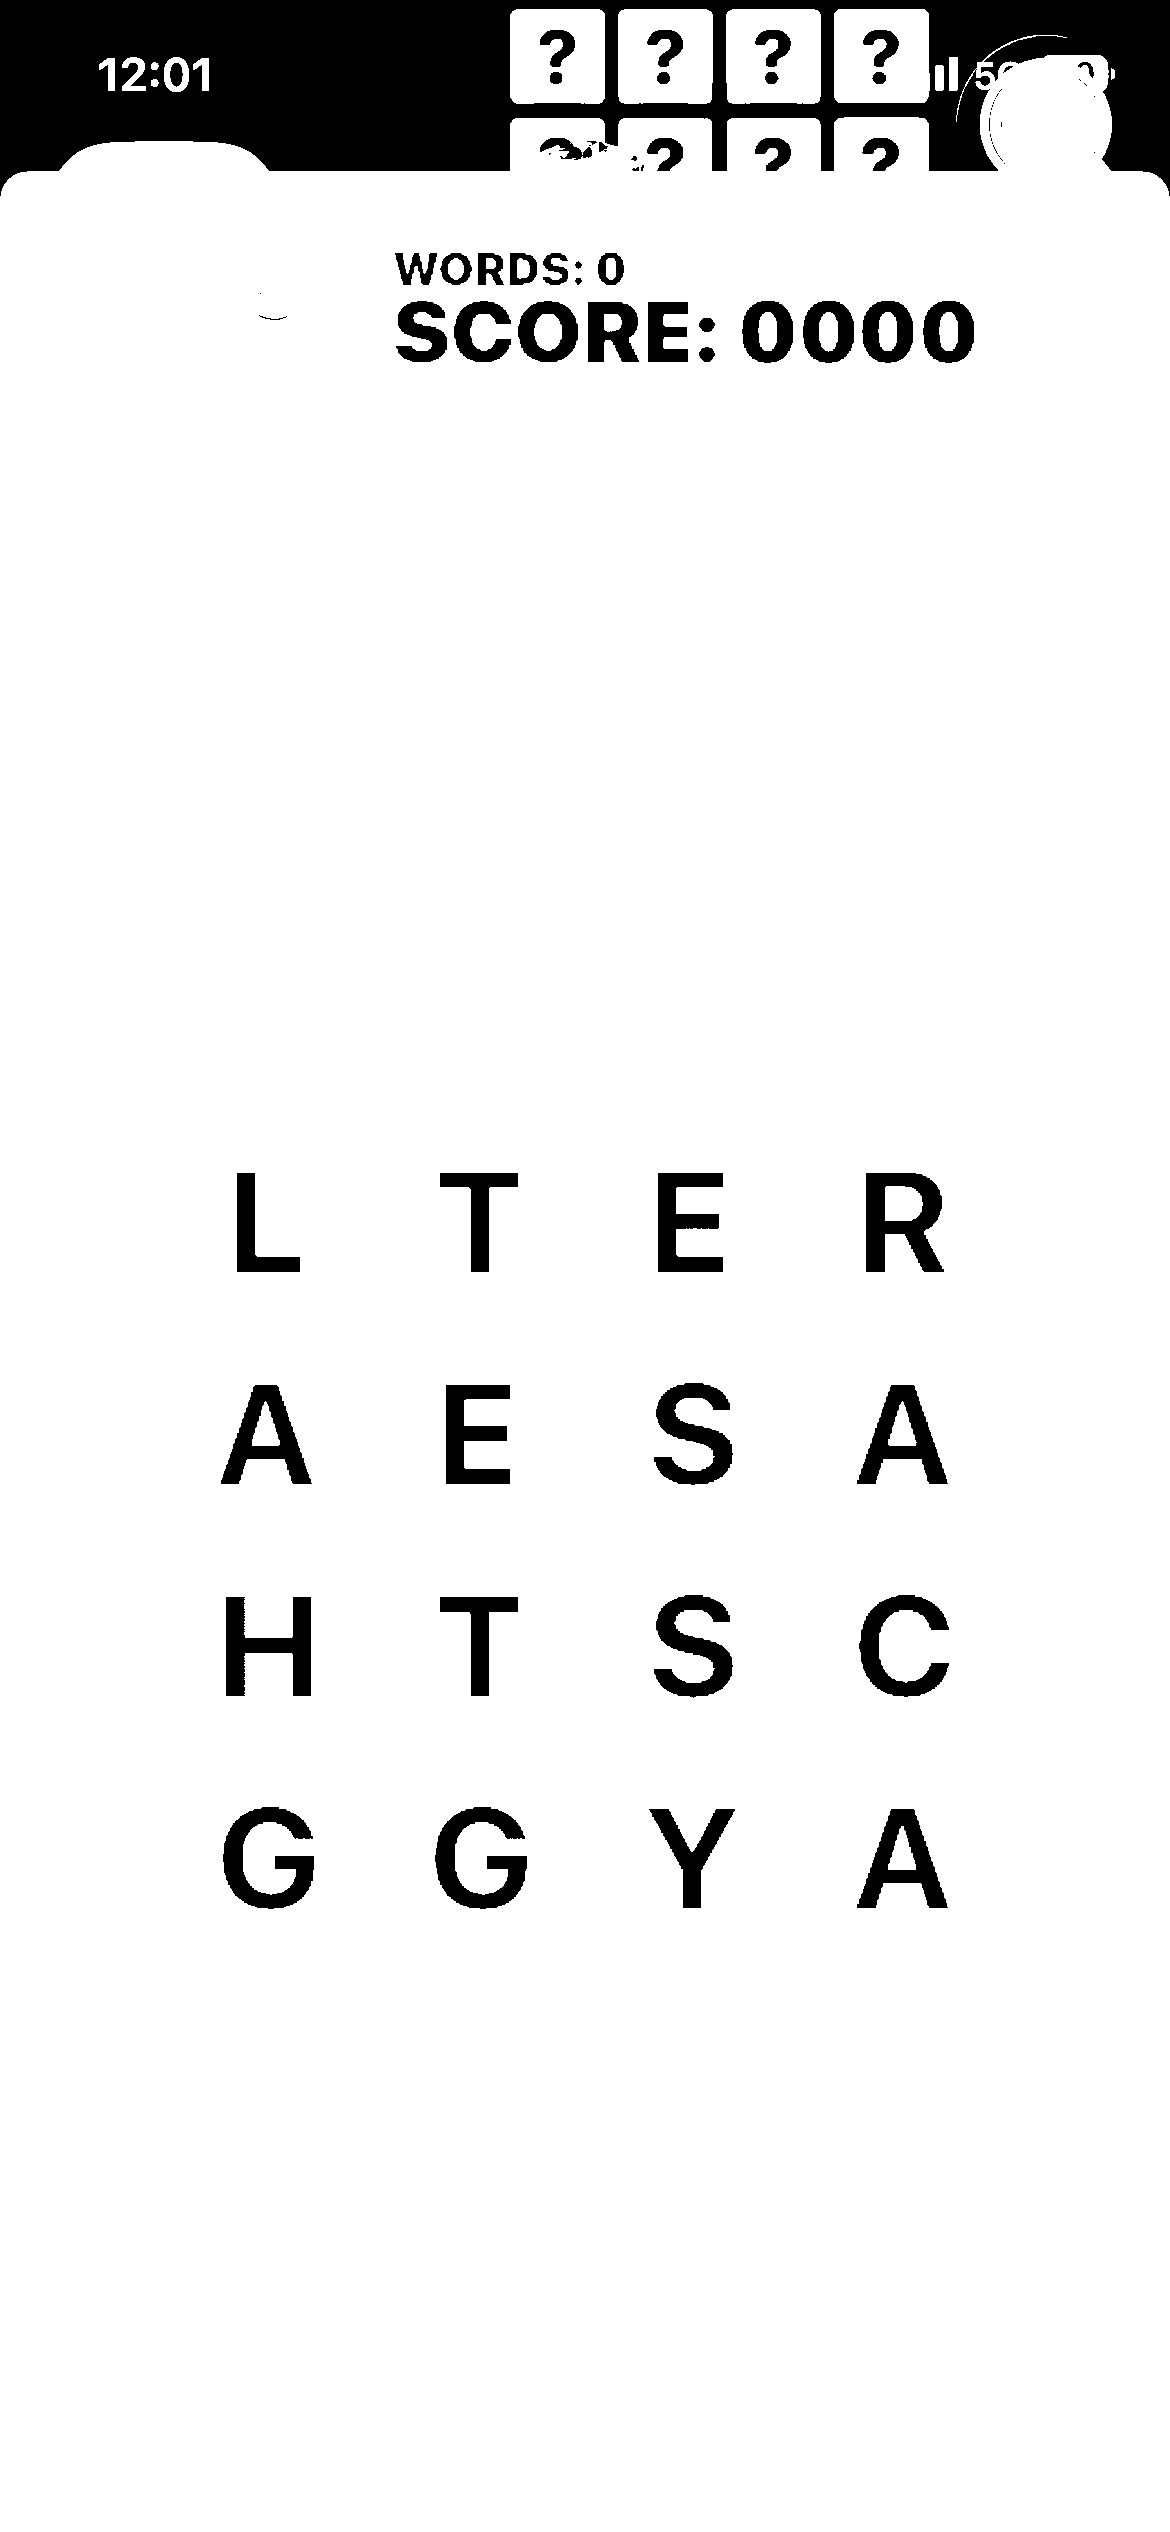
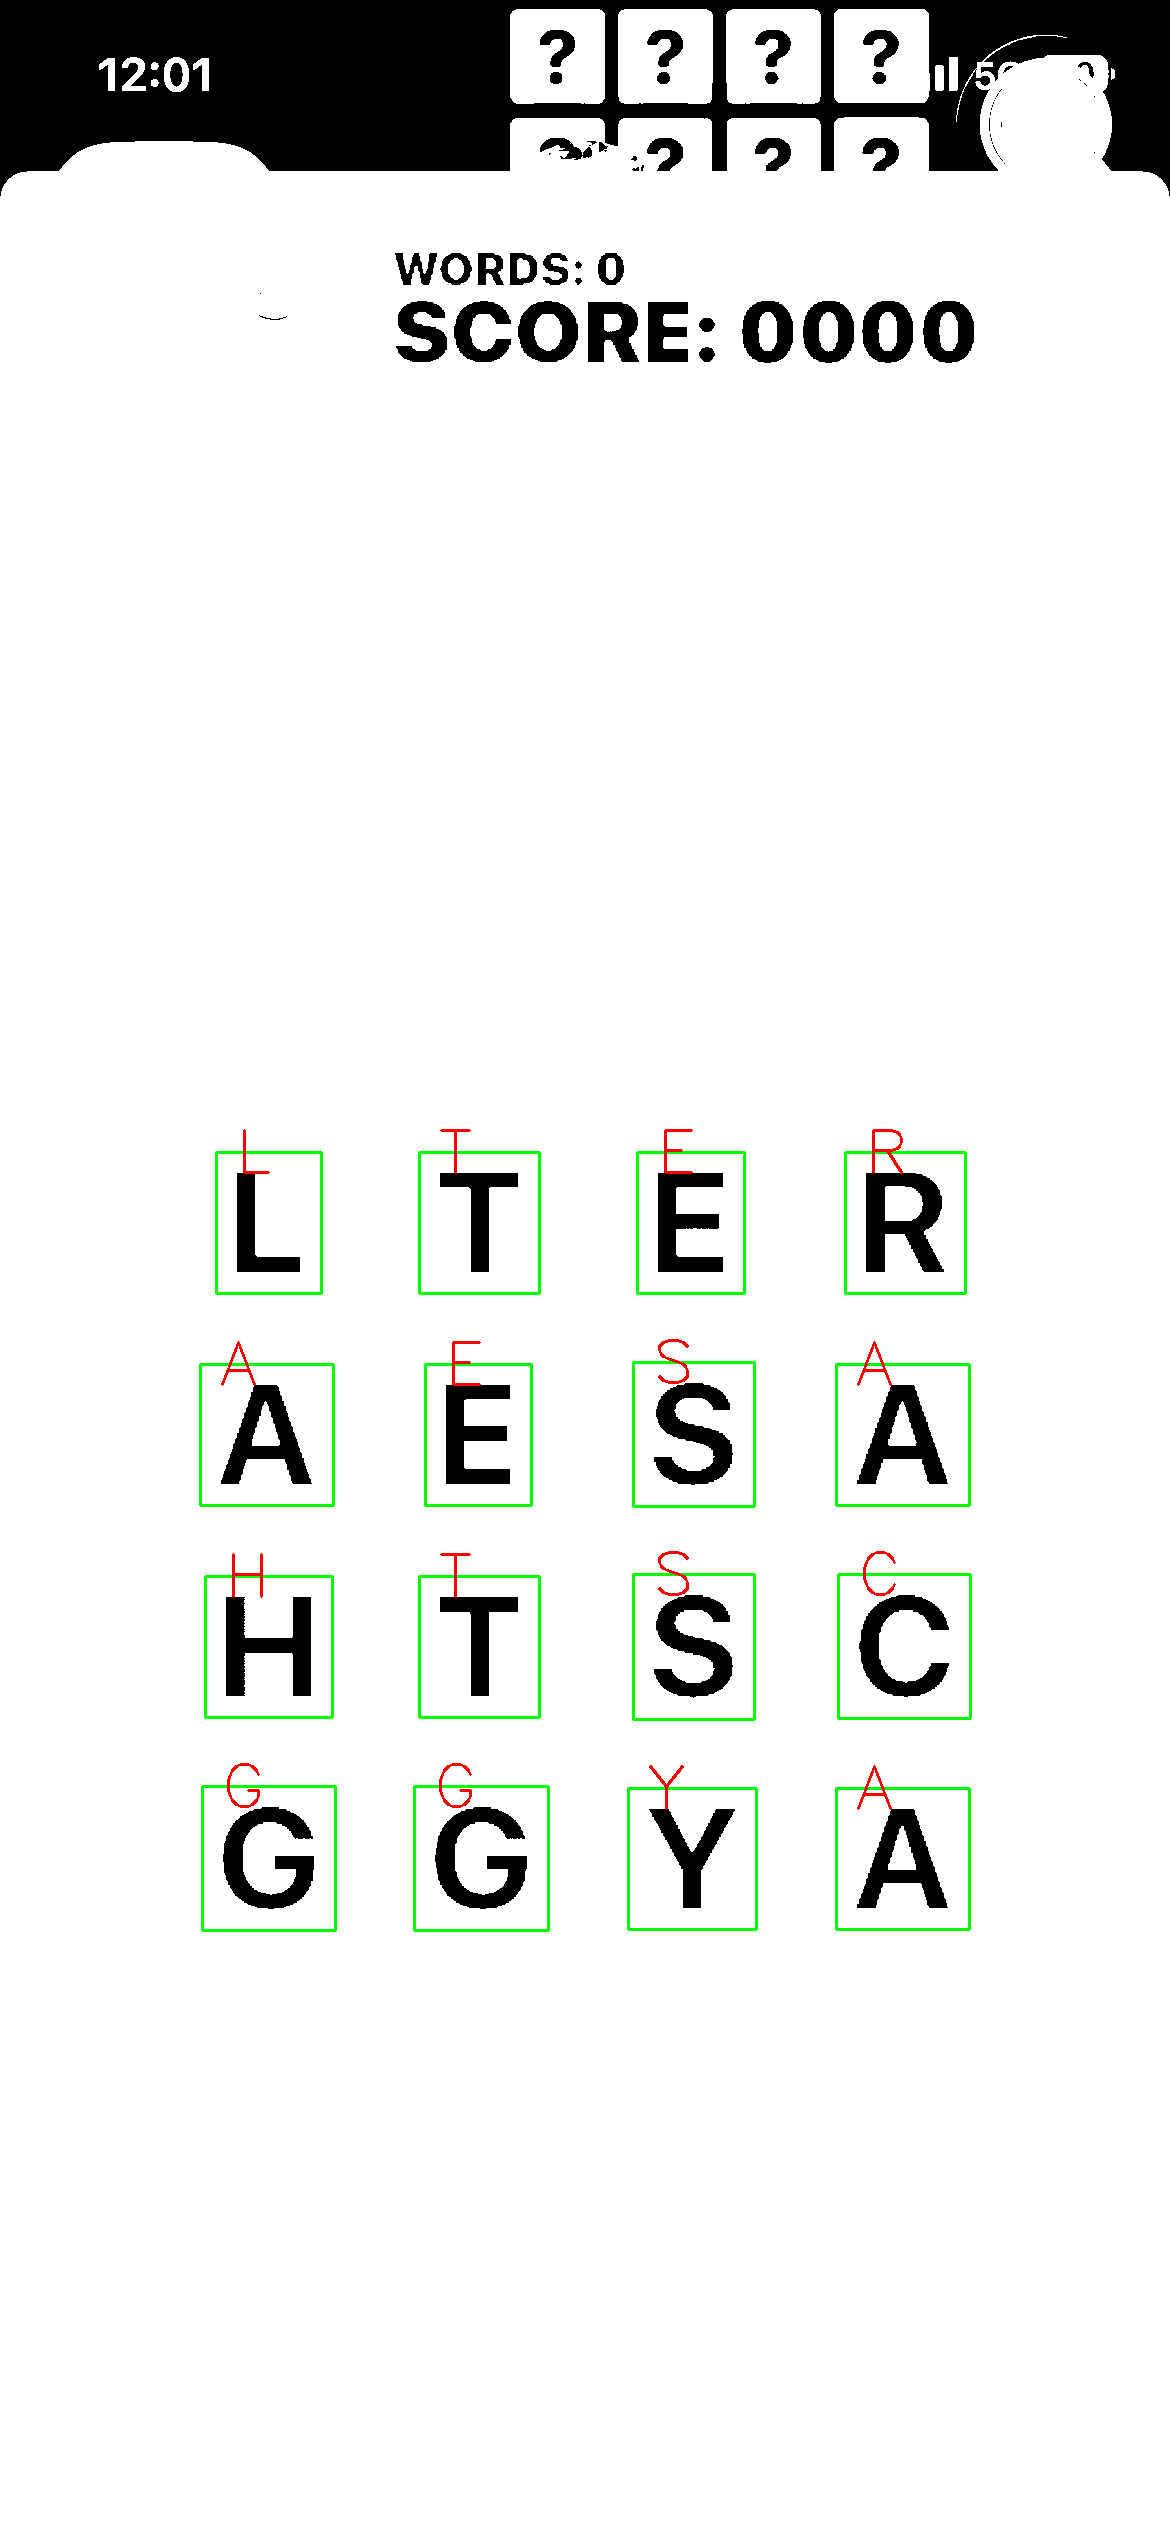
Finish image segmentation, ocr, grid extraction

diff --git a/imgproc.py b/imgproc.py
@@ -4,49 +4,72 @@ import cv2
 import pytesseract
 import functools
 
+# (`height`,`width`)
+GRID_SIZE = (4,4)
+TOTAL_LETTERS = GRID_SIZE[0]*GRID_SIZE[1]
+
 def processImage(img:Image.Image):
 	im = cv2.cvtColor(np.array(img),cv2.COLOR_RGB2BGR)
-	
+
+	grid = extract_grid(im)
+	print(*grid,sep="\n")
+
+def extract_grid(im:cv2.typing.MatLike):
 	threshed = cv2.extractChannel(im,2)
 	threshed = cv2.convertScaleAbs(threshed,alpha=10)
 	ret, threshed = cv2.threshold(threshed,127,255,cv2.THRESH_BINARY)
-
 	contours, hierarchy = cv2.findContours(threshed,cv2.RETR_TREE,cv2.CHAIN_APPROX_SIMPLE)
-
 	out=cv2.cvtColor(threshed,cv2.COLOR_GRAY2BGR)
 
-	HEIGHT = out.shape[0]
-	WIDTH = out.shape[1]
+	HEIGHT, WIDTH = threshed.shape[0], threshed.shape[1]
 
-	area = lambda rect: abs((rect[0]-rect[1]) * (rect[2]-rect[3]))
+	def good_pos_and_size(rect):
+		x,y,w,h = rect
+
+		if w > 0.2*WIDTH or h > 0.2*HEIGHT: return False # i.e. too big
+		if y < 0.3*HEIGHT: return False # i.e. too high
+		if x+w > WIDTH or y+h > HEIGHT: return False # i.e. out of bounds
+		return True
+	
+	area = lambda rect: abs(rect[2]*rect[3])
+	cmp_area = lambda a,b: area(b)-area(a) # descending area-wise
 	
 	rects = list(map(cv2.boundingRect,contours))
+	rects = filter(good_pos_and_size, rects)
+	rects = sorted(rects, key=functools.cmp_to_key(cmp_area))
 
-	cmp = lambda a,b: area(cv2.boundingRect(a))-area(cv2.boundingRect(b))
-	contours.sort(key=functools.cmp_to_key(cmp))
-	if len(contours) < 16:
+	if len(rects) < TOTAL_LETTERS:
 		print("WHAT?!?")
-		raise IndexError("Not enough letters detected; board should have atleast 16")
-	contours = contours[:16]
-
-	for contour in contours:
-		x,y,w,h = cv2.boundingRect(contour)
-		if w > 0.2*WIDTH or h > 0.2*HEIGHT: continue
-		if y < 0.3*HEIGHT: continue
-		# print(x,y,x+w,y+h)
-		# print(WIDTH,HEIGHT)
-		if x+w > WIDTH or y+h > HEIGHT: continue
-		text = str(pytesseract.image_to_string(threshed[y-20:y+h+20,x-20:x+w+20],lang="eng",config=r'--oem 3 --psm 6'))
-		print(ord(text[1]), len(text))
-		cv2.rectangle(out,(x-20,y-20),(x+w+20,y+h+20),(0,255,0),2)
-		cv2.putText(out,text,(x,y),cv2.FONT_HERSHEY_SIMPLEX,1,(0,0,0),1)
-	# out = cv2.drawContours(cv2.cvtColor(threshed,cv2.COLOR_GRAY2BGR),contours,-1,(0,255,0),5)
-
-	cv2.imshow("hallo",out)
-	cv2.waitKey(10000)
+		raise IndexError(f"Not enough letters detected; Detected {len(rects)}, board should have atleast {TOTAL_LETTERS}")
 	
-	Image.fromarray(cv2.cvtColor(out,cv2.COLOR_BGR2RGB)).save("img.png")
+	rects = rects[:16]
+	
+	letterLocs = []
+	for rect in rects:
+		x,y,w,h = rect
+		top, bottom = max(y-20,0), min(y+h+20,HEIGHT)
+		left, right = max(x-20,0), min(x+w+20,WIDTH)
+
+		text = str(pytesseract.image_to_string(threshed[top:bottom,left:right],lang="eng",config=r'--oem 3 --psm 6'))
+		letter = text[0]
+		# cv2.rectangle(out,(left,top),(right,bottom),(0,255,0),2) # DEBUG: outline detected characters' aabbs
+		# cv2.putText(out,text,(x,y),cv2.FONT_HERSHEY_SIMPLEX,2,(0,0,255),2) # DEBUG: superimpose detected characters
+		letterLocs.append(((y,x),letter))
+	letterLocs.sort() # sorts from **top to bottom**
+	annotatedGrid = [
+		sorted(
+			letterLocs[i*GRID_SIZE[1]:(i+1)*GRID_SIZE[1]],
+			key=functools.cmp_to_key(lambda a,b: a[0][1]-b[0][1])
+			) for i in range(GRID_SIZE[0])
+	]
+	# Image.fromarray(cv2.cvtColor(out,cv2.COLOR_BGR2RGB)).save("img.png") # DEBUG: output image
+	# cv2.imshow("hallo",out)
+	# cv2.waitKey(10000)
+	grid = list(map(lambda a: "".join(map(lambda b: b[1],a)),annotatedGrid))
+
+	return grid
 
 if __name__ == "__main__":
-	processImage(Image.open("test.png"))
+	img = Image.open("test.png")
+	processImage(img)
 	print("hooray!")